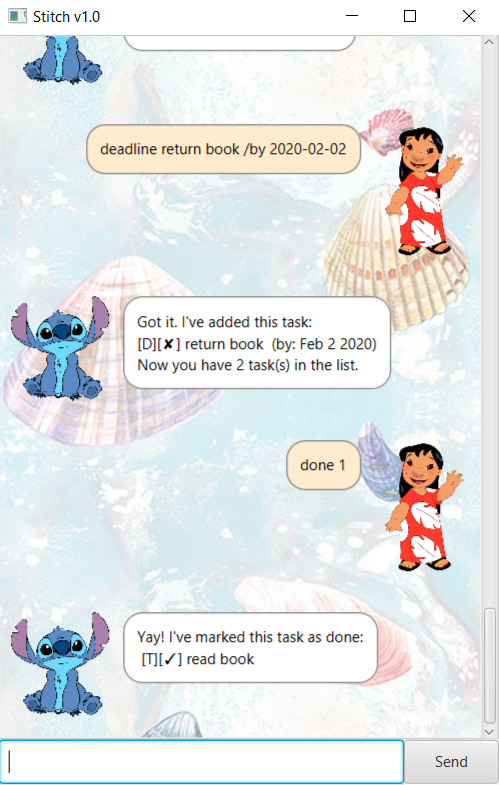
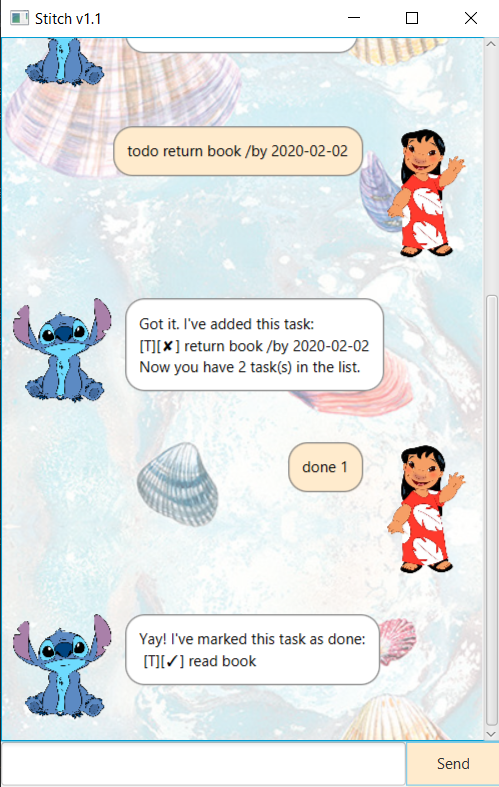
modify UI

diff --git a/src/main/java/duke/MainWindow.java b/src/main/java/duke/MainWindow.java
@@ -1,16 +1,17 @@
 package duke;
 
 import javafx.fxml.FXML;
-import javafx.geometry.Insets;
-import javafx.scene.control.Button;
-import javafx.scene.control.Label;
+import javafx.scene.layout.AnchorPane;
 import javafx.scene.control.ScrollPane;
+import javafx.scene.layout.VBox;
 import javafx.scene.control.TextField;
+import javafx.scene.control.Button;
 import javafx.scene.image.Image;
-import javafx.scene.image.ImageView;
-import javafx.scene.layout.*;
-import javafx.scene.paint.Color;
-import javafx.scene.paint.Paint;
+import javafx.scene.layout.BackgroundImage;
+import javafx.scene.layout.BackgroundRepeat;
+import javafx.scene.layout.BackgroundPosition;
+import javafx.scene.layout.BackgroundSize;
+import javafx.scene.layout.Background;
 
 /**
  * Controller for duke.MainWindow. Provides the layout for the other controls.
@@ -47,6 +48,7 @@ public class MainWindow extends AnchorPane {
         Background background = new Background(backgroundImage);
         dialogContainer.setBackground(background);
         dialogContainer.getChildren().add(DialogBox.getDukeDialog(greeting, dukeImage));
+        sendButton.setStyle("-fx-background-color: blanchedalmond; -fx-border-color: skyblue");
     }
 
     public void setDuke(Duke d) {

diff --git a/src/main/java/duke/Storage.java b/src/main/java/duke/Storage.java
@@ -1,6 +1,12 @@
 package duke;
 
-import java.io.*;
+import java.io.File;
+import java.io.FileInputStream;
+import java.io.FileOutputStream;
+import java.io.InputStreamReader;
+import java.io.OutputStreamWriter;
+import java.io.BufferedReader;
+import java.io.BufferedWriter;
 import java.time.LocalDate;
 import java.time.LocalDateTime;
 import java.util.ArrayList;
@@ -51,7 +57,7 @@ public class Storage {
                         newTask = new Event(temp[1], localDateTime);
                     }
 
-                    if (temp[0].equals("\u2713")) {
+                    if (temp[0].equals("Y")) {
                         newTask.isDone = true;
                     }
 
@@ -80,7 +86,7 @@ public class Storage {
 
             for (int i = 0; i < taskList.tasks.size(); i++) {
                 Task task = taskList.tasks.get(i);
-                String save = task.getStatusIcon() + "/" + task.description + "/";
+                String save = task.getStatus() + "/" + task.description + "/";
 
                 if (task instanceof ToDo) {
                     save += "T";

diff --git a/src/main/java/duke/Ui.java b/src/main/java/duke/Ui.java
@@ -28,7 +28,7 @@ public class Ui {
      * Returns goodbye message when program terminates.
      */
     public String showGoodbye() {
-        return "Aloha! Hope to see you again soon! :)\n";
+        return "Aloha! Ohana means Family.\nFamily means nobody gets left behind.\n";
     }
 
     /**
@@ -166,7 +166,7 @@ public class Ui {
     }
 
     /**
-     * Returns error message when user has entered duplicate task
+     * Returns error message when user has entered duplicate task.
      *
      * @return error message
      */

diff --git a/src/main/java/duke/Main.java b/src/main/java/duke/Main.java
@@ -22,7 +22,7 @@ public class Main extends Application {
             Scene scene = new Scene(ap);
             stage.setScene(scene);
             fxmlLoader.<MainWindow>getController().setDuke(duke);
-            stage.setTitle("Stitch v1.0");
+            stage.setTitle("Stitch v1.1");
             stage.show();
         } catch (IOException e) {
             e.printStackTrace();

diff --git a/src/main/java/duke/Parser.java b/src/main/java/duke/Parser.java
@@ -35,7 +35,7 @@ public class Parser {
 
         } else if (input.equals("bye")) {
             response = ui.showGoodbye();
-            PauseTransition delay = new PauseTransition(Duration.seconds(3));
+            PauseTransition delay = new PauseTransition(Duration.seconds(5));
             delay.setOnFinished(event -> Platform.exit());
             delay.play();
 

diff --git a/src/main/java/duke/Task.java b/src/main/java/duke/Task.java
@@ -29,6 +29,15 @@ public class Task implements Serializable {
     }
 
     /**
+     * Returns status of task.
+     *
+     * @return status of whether a task is done
+     */
+    public String getStatus() {
+        return (isDone ? "Y" : "N"); //return tick or X symbols
+    }
+
+    /**
      * Changes status of task to done.
      */
     public void markDone() {

diff --git a/docs/README.md b/docs/README.md
@@ -15,7 +15,7 @@
 - Store downloaded file in any existing or newly created directory.
 - Double-click file to begin using.
 
-****Java 11** is needed to use application*
+***Java 11** is needed to use application
 
 ## Usage
 
